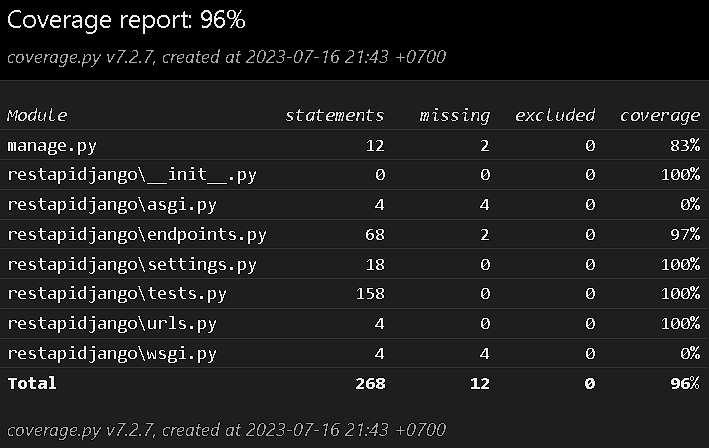
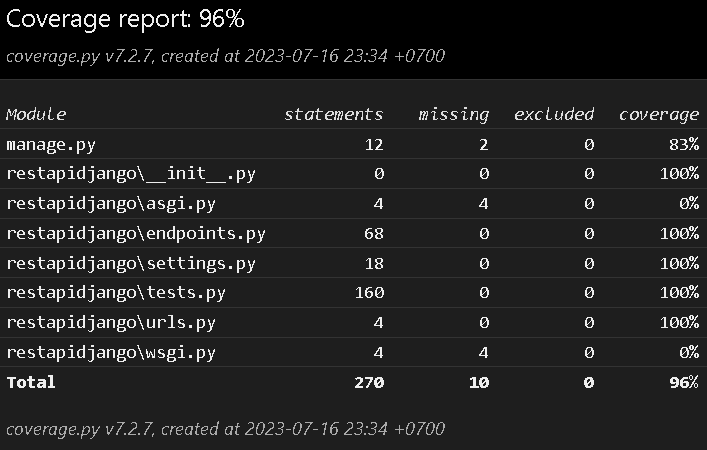
Updated tests.py for 100% coverage on endpoints.py

diff --git a/tests.py b/tests.py
@@ -1,0 +1,234 @@
+# Import Django configurations from settings.py
+import os
+os.environ['DJANGO_SETTINGS_MODULE'] = 'settings'
+
+# Import Django
+import django
+django.setup()
+
+# Other Imports
+from django.contrib.auth.models import User
+from django.test import TestCase
+from rest_framework.test import APIClient
+from restapidjango.endpoints import authenticate_with_token
+
+# LoginTestCase class
+# Purpose: Test the login_request function and all its possible responses
+class LoginTestCase(TestCase):
+    # Initial setup for every test in LoginTestCase
+    def setUp(self):
+        self.client = APIClient()
+        self.user = User.objects.create_user(username="testuser", password="testpass")
+
+    # Test #1: login_request success, is logged in, and the token works as intended
+    # status code: 200 OK    
+    def test_login_success(self):
+        response = self.client.post("/login/", {"username": "testuser", "password": "testpass"})
+        self.assertEqual(response.status_code, 200)
+        self.assertIn("token", response.data)
+        token = response.data['token']
+        self.assertTrue(authenticate_with_token(token))
+        fakeToken = ""
+        self.assertFalse(authenticate_with_token(fakeToken))
+
+    # Test #2: login_request failure due to wrong credentials
+    # status code: 400 BAD REQUEST   
+    def test_login_wrong_credentials(self):
+        response = self.client.post("/login/", {"username": "wronguser", "password": "wrongpass"})
+        self.assertEqual(response.status_code, 400)
+        self.assertIn("error", response.data)
+
+# RegisterTestCase class
+# Purpose: Test the register_request function and all its possible responses
+class RegisterTestCase(TestCase):
+    # Initial setup for every test in RegisterTestCase
+    def setUp(self):
+        self.client = APIClient()
+        self.user = User.objects.create_user(username="exampleuser", password="examplepass", email="example@example.com")
+
+    # Test #3: register_request success
+    # status code: 201 CREATED  
+    def test_register_success(self):
+        response = self.client.post("/register/", {"username": "testuser", "password": "testpass", "email": "test@example.com"})
+        self.assertEqual(response.status_code, 201)
+        self.assertIn("success", response.data)
+
+    # Test #4: register_request failure due to missing fields
+    # status code: 400 BAD REQUEST
+    # error message: Missing fields
+    def test_register_missing_fields(self):
+        response = self.client.post("/register/", {"username": "", "password": "", "email": ""})
+        self.assertEqual(response.status_code, 400)
+        self.assertIn("error", response.data)
+        self.assertEqual(response.data["error"], "Missing fields")
+        response2 = self.client.post("/register/", {"username": "testuser", "password": "", "email": ""})
+        self.assertEqual(response2.status_code, 400)
+        self.assertIn("error", response2.data)
+        self.assertEqual(response2.data["error"], "Missing fields")
+        response3 = self.client.post("/register/", {"username": "", "password": "testpass", "email": ""})
+        self.assertEqual(response3.status_code, 400)
+        self.assertIn("error", response3.data)
+        self.assertEqual(response3.data["error"], "Missing fields")
+        response4 = self.client.post("/register/", {"username": "", "password": "", "email": "test@example.com"})
+        self.assertEqual(response4.status_code, 400)
+        self.assertIn("error", response4.data)
+        self.assertEqual(response4.data["error"], "Missing fields")
+        response5 = self.client.post("/register/", {"username": "testuser", "password": "testpass", "email": ""})
+        self.assertEqual(response5.status_code, 400)
+        self.assertIn("error", response5.data)
+        self.assertEqual(response5.data["error"], "Missing fields")
+        response6 = self.client.post("/register/", {"username": "", "password": "testpass", "email": "test@example.com"})
+        self.assertEqual(response6.status_code, 400)
+        self.assertIn("error", response6.data)
+        self.assertEqual(response6.data["error"], "Missing fields")
+        response7 = self.client.post("/register/", {"username": "testuser", "password": "", "email": "test@example.com"})
+        self.assertEqual(response7.status_code, 400)
+        self.assertIn("error", response7.data)
+        self.assertEqual(response7.data["error"], "Missing fields")
+
+    # Test #5: register_request failure due to user already existing
+    # status code: 400 BAD REQUEST
+    # error message: User already exists
+    def test_register_user_already_exists(self):
+        response = self.client.post("/register/", {"username": "exampleuser", "password": "examplepass", "email": "test@example.com"})
+        self.assertEqual(response.status_code, 400)
+        self.assertIn("error", response.data)
+        self.assertEqual(response.data["error"], "User already exists")
+        response2 = self.client.post("/register/", {"username": "testuser", "password": "examplepass", "email": "example@example.com"})
+        self.assertEqual(response2.status_code, 400)
+        self.assertIn("error", response2.data)
+        self.assertEqual(response2.data["error"], "User already exists")
+        response3 = self.client.post("/register/", {"username": "exampleuser", "password": "examplepass", "email": "example@example.com"})
+        self.assertEqual(response3.status_code, 400)
+        self.assertIn("error", response3.data)
+        self.assertEqual(response3.data["error"], "User already exists")
+
+# ListUsersTestCase class
+# Purpose: Test the list_users_request function and all its possible responses
+class ListUsersTestCase(TestCase):
+    # Initial setup for every test in ListUsersTestCase
+    def setUp(self):
+        self.client = APIClient()
+        User.objects.create_user(username="testuser1", password="testpass1", email="test1@example.com")
+        User.objects.create_user(username="testuser2", password="testpass2", email="test2@example.com")
+
+    # Test #6: list_users_request success
+    # status code: 200 OK
+    def test_list_users(self):
+        response = self.client.get("/listusers/")
+        self.assertEqual(response.status_code, 200)
+        self.assertEqual(len(response.data), 2)
+
+# AddUserTestCase class
+# Purpose: Test the add_user_request function and all its possible responses
+class AddUserTestCase(TestCase):
+    # Initial setup for every test in AddUserTestCase
+    def setUp(self):
+        self.client = APIClient()
+        self.user = User.objects.create_user(username="testuser", password="testpass", email="test@example.com")
+
+    # Test #7: add_user_request success
+    # status code: 201 CREATED
+    def test_add_user_success(self):
+        self.client.login(username="testuser", password="testpass")
+        response = self.client.post("/adduser/", {"username": "newuser", "password": "newpass", "email": "new@example.com"})
+        self.assertEqual(response.status_code, 201)
+        self.assertIn("success", response.data)
+
+    # Test #8: add_user_request failure due to missing fields
+    # status code: 400 BAD REQUEST
+    # error message: Missing fields
+    def test_add_user_missing_fields(self):
+        self.client.login(username="testuser", password="testpass")
+        response = self.client.post("/adduser/", {"username": "", "password": "", "email": ""})
+        self.assertEqual(response.status_code, 400)
+        self.assertIn("error", response.data)
+        self.assertEqual(response.data["error"], "Missing fields")
+        response2 = self.client.post("/adduser/", {"username": "newuser", "password": "", "email": ""})
+        self.assertEqual(response2.status_code, 400)
+        self.assertIn("error", response2.data)
+        self.assertEqual(response2.data["error"], "Missing fields")
+        response3 = self.client.post("/adduser/", {"username": "", "password": "newpass", "email": ""})
+        self.assertEqual(response3.status_code, 400)
+        self.assertIn("error", response3.data)
+        self.assertEqual(response3.data["error"], "Missing fields")
+        response4 = self.client.post("/adduser/", {"username": "", "password": "", "email": "new@example.com"})
+        self.assertEqual(response4.status_code, 400)
+        self.assertIn("error", response4.data)
+        self.assertEqual(response4.data["error"], "Missing fields")
+        response5 = self.client.post("/adduser/", {"username": "newuser", "password": "newpass", "email": ""})
+        self.assertEqual(response5.status_code, 400)
+        self.assertIn("error", response5.data)
+        self.assertEqual(response5.data["error"], "Missing fields")
+        response6 = self.client.post("/adduser/", {"username": "", "password": "newpass", "email": "new@example.com"})
+        self.assertEqual(response6.status_code, 400)
+        self.assertIn("error", response6.data)
+        self.assertEqual(response6.data["error"], "Missing fields")
+        response7 = self.client.post("/adduser/", {"username": "newuser", "password": "", "email": "new@example.com"})
+        self.assertEqual(response7.status_code, 400)
+        self.assertIn("error", response7.data)
+        self.assertEqual(response7.data["error"], "Missing fields")
+    
+    # Test #9: add_user_request failure due to user already existing
+    # status code: 400 BAD REQUEST
+    # error message: User already exists
+    def test_add_user_user_already_exists(self):
+        self.client.login(username="testuser", password="testpass")
+        response = self.client.post("/adduser/", {"username": "testuser", "password": "examplepass", "email": "example@example.com"})
+        self.assertEqual(response.status_code, 400)
+        self.assertIn("error", response.data)
+        self.assertEqual(response.data["error"], "User already exists")
+        response2 = self.client.post("/adduser/", {"username": "exampleuser", "password": "examplepass", "email": "test@example.com"})
+        self.assertEqual(response2.status_code, 400)
+        self.assertIn("error", response2.data)
+        self.assertEqual(response2.data["error"], "User already exists")
+
+    # Test #10: add_user_request failure due to the function being used while not logged on
+    # status code: 403 FORBIDDEN
+    def test_add_user_unauthenticated(self):
+        response = self.client.post("/adduser/", {"username": "testuser", "password": "testpass", "email": "new@example.com"})
+        self.assertEqual(response.status_code, 403)
+
+# RemoveUserTestCase class
+# Purpose: Test the remove_user_request function and all its possible responses
+class RemoveUserTestCase(TestCase):
+    # Initial setup for every test in RemoveUserTestCase
+    def setUp(self):
+        self.client = APIClient()
+        User.objects.create_user(username="testuser", password="testpass")
+
+    # Test #11: remove_user_request success
+    # status code: 204 NO CONTENT
+    def test_remove_user_success(self):
+        response = self.client.delete("/removeuser/", {"username": "testuser", "password": "testpass"})
+        self.assertEqual(response.status_code, 204)
+
+    # Test #12: remove_user_request failure due to missing fields
+    # status code: 400 BAD REQUEST
+    # error message: Missing fields
+    def test_remove_user_missing_fields(self):
+        response = self.client.delete("/removeuser/", {"username": "", "password": "testpass"})
+        self.assertEqual(response.status_code, 400)
+        self.assertEqual(response.data["error"], "Missing fields")
+        response2 = self.client.delete("/removeuser/", {"username": "testuser", "password": ""})
+        self.assertEqual(response2.status_code, 400)
+        self.assertEqual(response2.data["error"], "Missing fields")
+        response3 = self.client.delete("/removeuser/", {"username": "", "password": ""})
+        self.assertEqual(response3.status_code, 400)
+        self.assertEqual(response3.data["error"], "Missing fields")
+
+    # Test #13: remove_user_request failure due to wrong password
+    # status code: 400 BAD REQUEST
+    # error message: Wrong password
+    def test_remove_user_wrong_password(self):
+        response = self.client.delete("/removeuser/", {"username": "testuser", "password": "passpass"})
+        self.assertEqual(response.status_code, 400)
+        self.assertEqual(response.data["error"], "Wrong password")   
+
+    # Test #14: remove_user_request failure due to user not existing
+    # status code: 404 NOT FOUND
+    # error message: User does not exist
+    def test_remove_user_user_does_not_exist(self):
+        response = self.client.delete("/removeuser/", {"username": "testtest", "password": "testpass"})
+        self.assertEqual(response.status_code, 404)
+        self.assertEqual(response.data["error"], "User does not exist")
